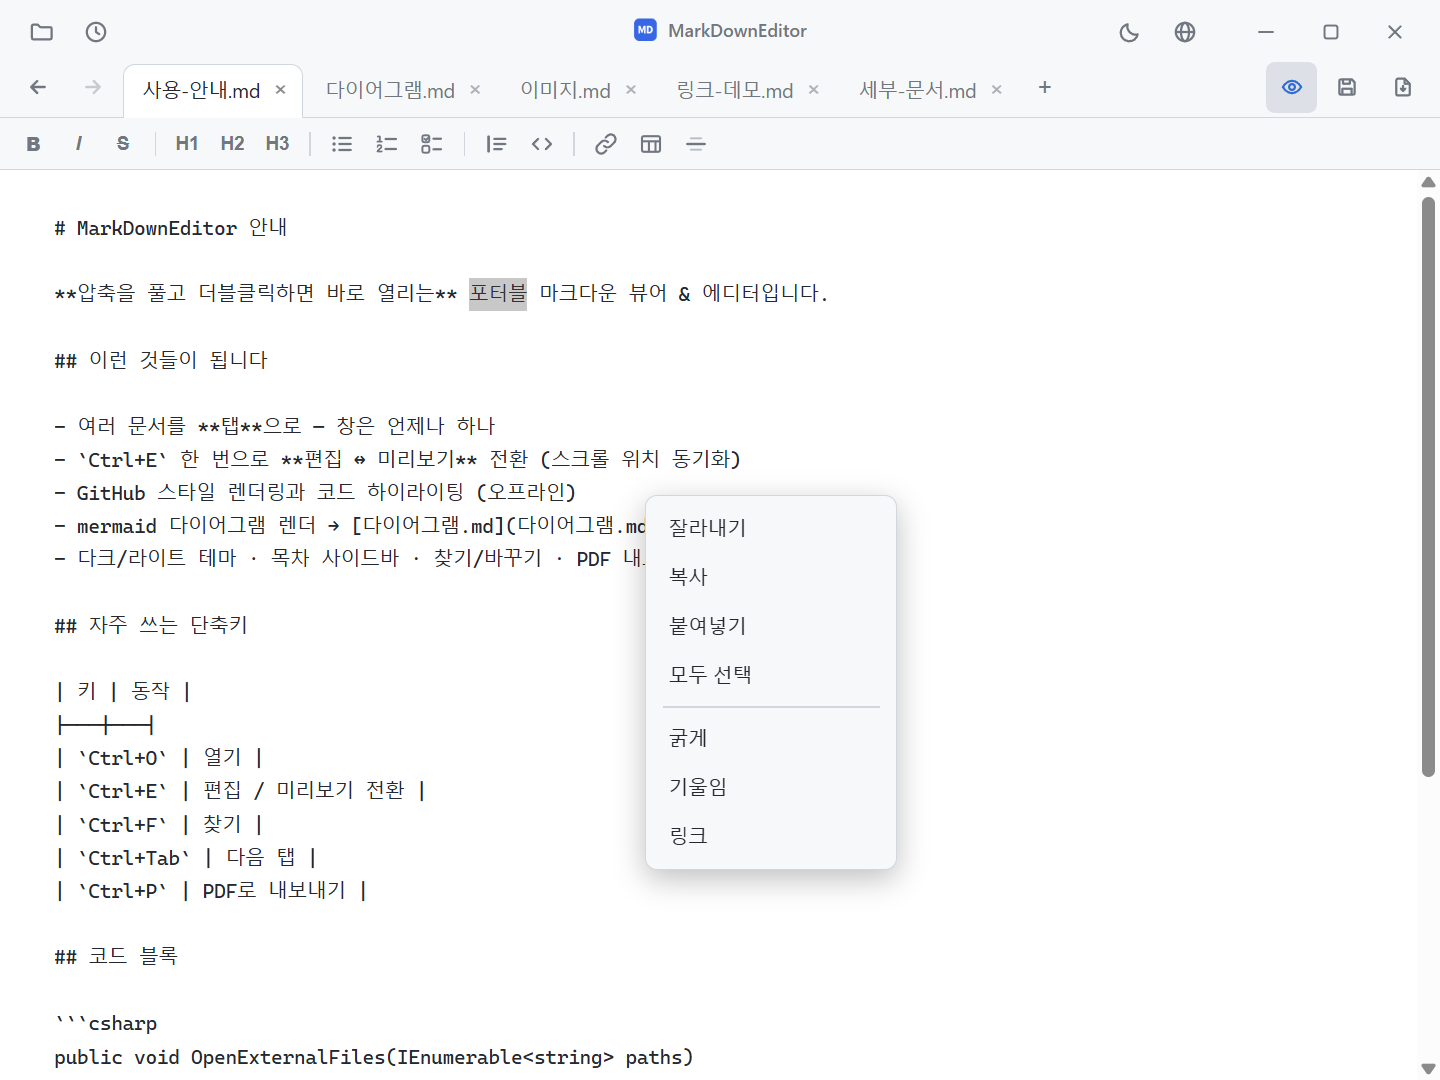
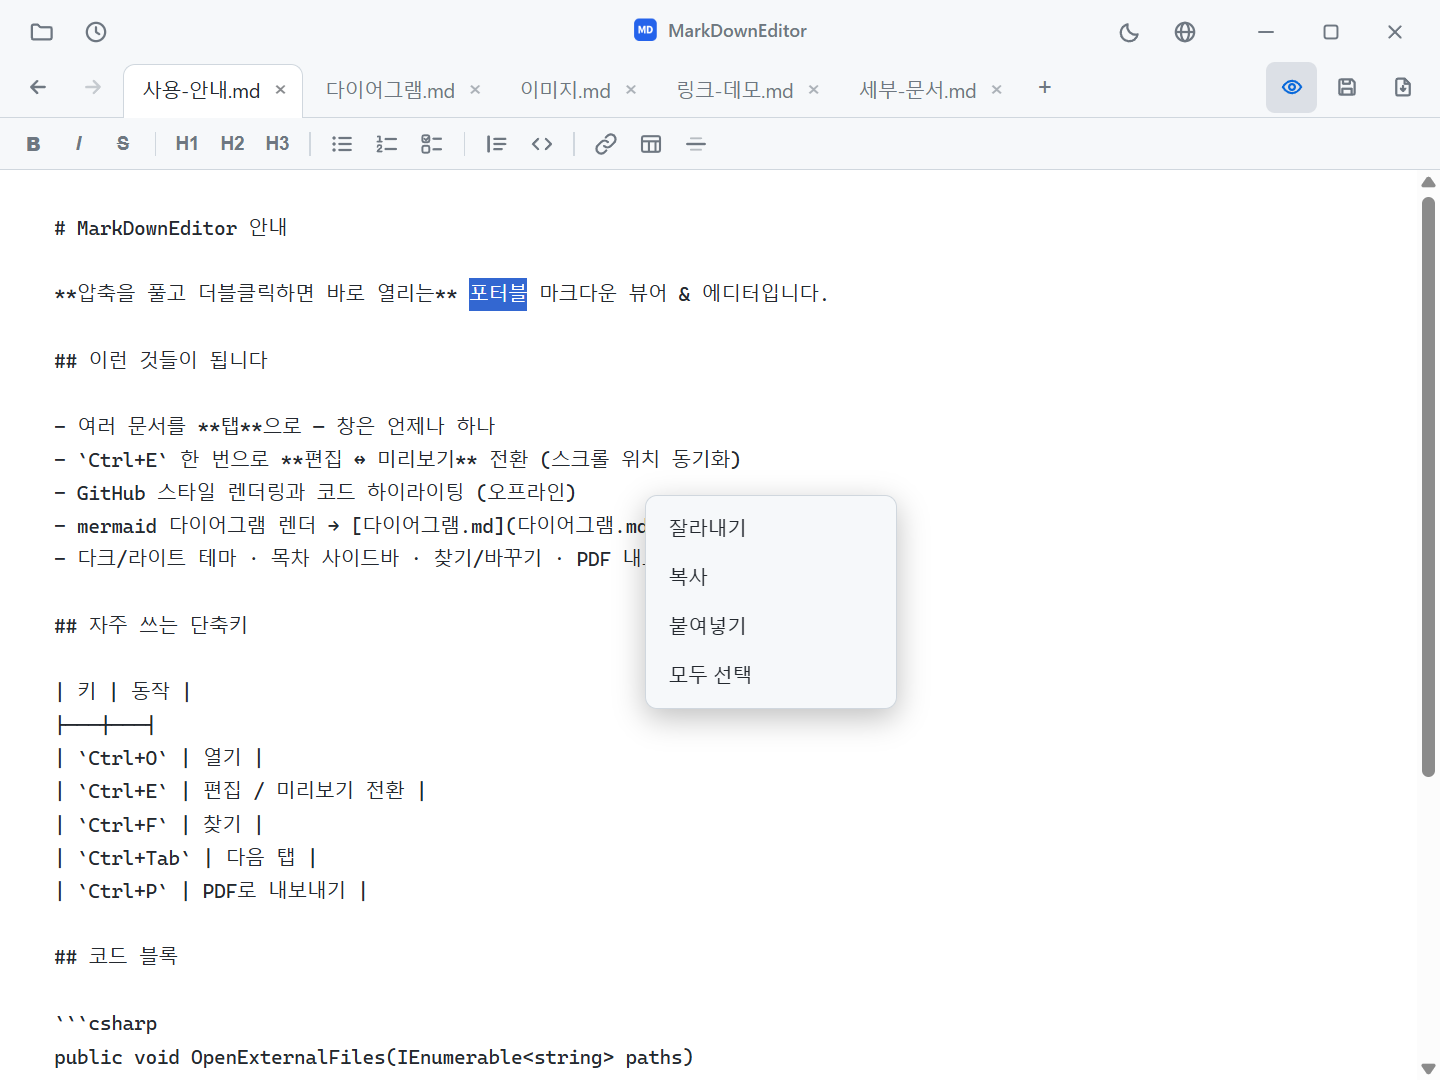
버그 수정: 같은 확인 팝업이 중복으로 뜨는 두 경로 차단
- 종료 확인(OnClosing): 확인 창이 떠 있는 동안 오는 추가 닫기 요청을 무시하는
  재진입 가드 추가 — 같은 MessageBox가 겹쳐 뜨던 문제 해결
- 외부 변경 확인(applyExternalChange): "내 편집 유지"를 선택한 뒤 같은 내용의
  파일 이벤트(인덱서·백신 touch 등)가 다시 와도 같은 확인을 반복하지 않음
- context-menu.png 재촬영 (지난 커밋에서 보류했던 정리된 4항목 메뉴 반영)
- 회귀 확인: 클린 탭 외부 변경 자동 반영 정상 (확인 창 없음)

Changed region(s): [[0.4375, 0.6417, 0.625, 0.825], [0.3125, 0.2444, 0.375, 0.3056]]

diff --git a/src/web/app.js b/src/web/app.js
@@ -1818,7 +1818,13 @@ function applyExternalChange(m) {
   const newText = m.text || '';
   const curText = (t.id === activeId && t.editing) ? els.editor.value : t.text;
   if (curText === newText) { t.img = m.imgMap || null; return; }   // 내용 동일(우리 저장 등) → 무시
-  if (t.dirty && !window.confirm(L.extConfirm(t.name))) return;
+  if (t.dirty) {
+    // 같은 외부 내용에 대해 이미 "내 편집 유지"를 선택했다면 같은 확인을 반복하지 않음
+    // (파일 이벤트는 인덱서·백신 등으로 같은 내용에 여러 번 올 수 있다)
+    if (t.extDeclined === newText) return;
+    if (!window.confirm(L.extConfirm(t.name))) { t.extDeclined = newText; return; }
+  }
+  t.extDeclined = undefined;
 
   t.text = newText;
   t.img = m.imgMap || null;

diff --git a/src/MainWindow.xaml.cs b/src/MainWindow.xaml.cs
@@ -812,12 +812,20 @@ public partial class MainWindow : Window
         catch { /* 다른 프로그램이 아직 쓰는 중(잠금) → 보통 후속 이벤트에서 재시도됨 */ }
     }
 
+    private bool _closeConfirmShowing;   // 확인 창이 떠 있는 동안 오는 추가 닫기 요청 무시 (동일 팝업 중복 방지)
+
     private void OnClosing(object? sender, System.ComponentModel.CancelEventArgs e)
     {
         if (!_anyDirty) return;
-        var r = MessageBox.Show(this, Loc.CloseConfirm, Loc.CapConfirm,
-            MessageBoxButton.YesNo, MessageBoxImage.Question);
-        if (r != MessageBoxResult.Yes) e.Cancel = true;
+        if (_closeConfirmShowing) { e.Cancel = true; return; }
+        _closeConfirmShowing = true;
+        try
+        {
+            var r = MessageBox.Show(this, Loc.CloseConfirm, Loc.CapConfirm,
+                MessageBoxButton.YesNo, MessageBoxImage.Question);
+            if (r != MessageBoxResult.Yes) e.Cancel = true;
+        }
+        finally { _closeConfirmShowing = false; }
     }
 
     private void SendToWeb(object payload)
